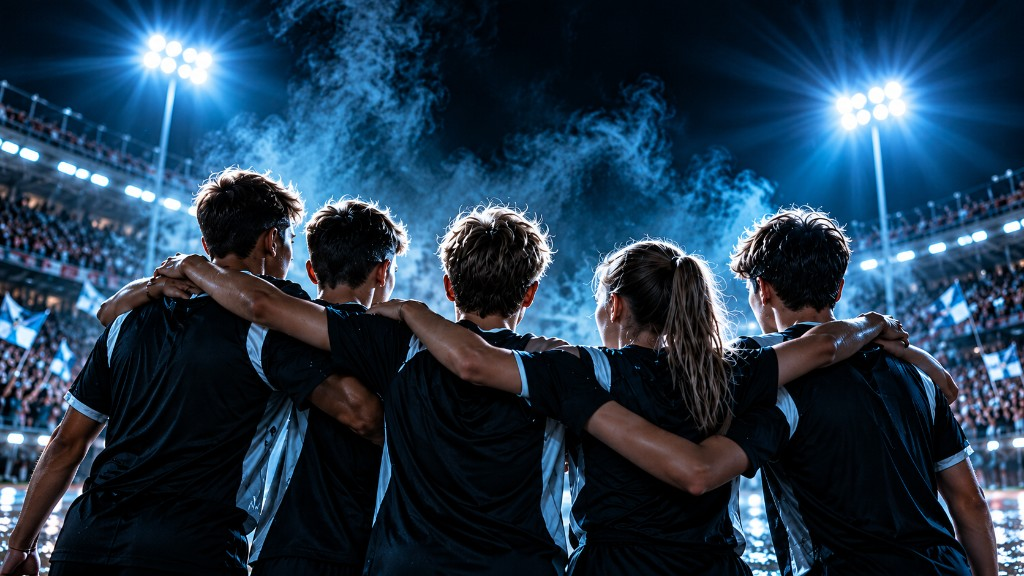
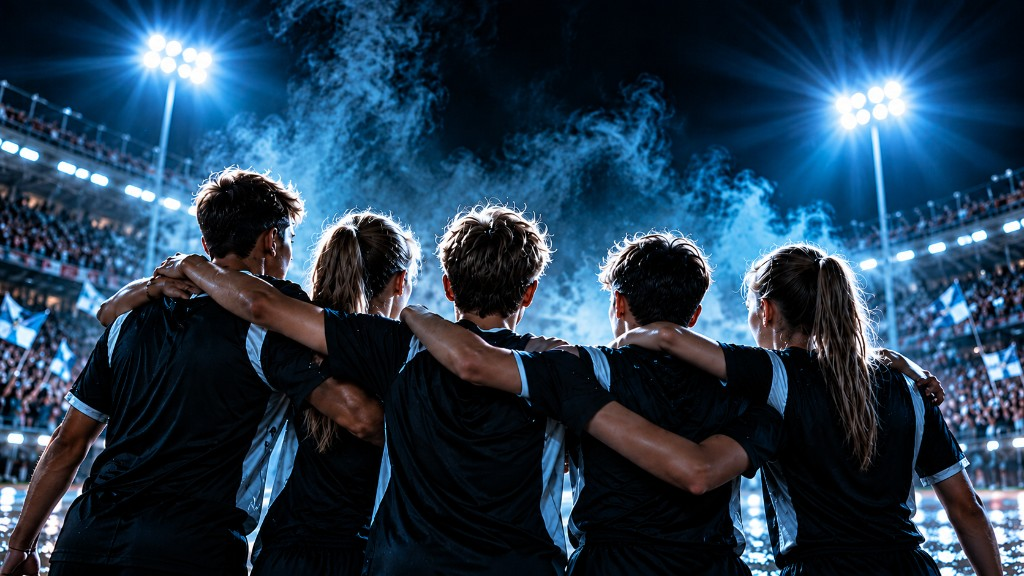
ordnade avsnittsnavigering, och anpassat bilderna efter mobil

diff --git a/components/rail.tsx b/components/rail.tsx
@@ -2,20 +2,51 @@
 
 import { useCallback, useEffect, useState } from "react";
 import Link from "next/link";
+import { usePathname } from "next/navigation";
 import { useLenis } from "lenis/react";
 
-const chapters = [
-  { id: "top", label: "Planen" },
-  { id: "kedjan", label: "Häftet" },
-  { id: "kund", label: "Plus" },
-  { id: "produkter", label: "Produkter" },
-  { id: "mer", label: "Mer" },
-  { id: "kontakt", label: "Kontakt" },
-];
+type Chapter = { id: string; label: string };
 
-function currentChapter() {
+const rails: Record<string, { accent: string; chapters: Chapter[] }> = {
+  "/": {
+    accent: "bg-cyan",
+    chapters: [
+      { id: "top", label: "Planen" },
+      { id: "kedjan", label: "Häftet" },
+      { id: "kund", label: "Plus" },
+      { id: "produkter", label: "Produkter" },
+      { id: "mer", label: "Mer" },
+      { id: "kontakt", label: "Kontakt" },
+    ],
+  },
+  "/print": {
+    accent: "bg-cyan",
+    chapters: [
+      { id: "top", label: "Namnet" },
+      { id: "inledning", label: "Trycket" },
+      { id: "kedjan", label: "Kedjan" },
+      { id: "sortiment", label: "Sortiment" },
+      { id: "kontakt", label: "Kontakt" },
+    ],
+  },
+  "/skanetaxen": {
+    accent: "bg-[#e7dcc8]",
+    chapters: [
+      { id: "top", label: "Märket" },
+      { id: "inledning", label: "Bära" },
+      { id: "kollektion", label: "Kollektion" },
+      { id: "bars", label: "Stilen" },
+      { id: "forjanst", label: "Förtjänst" },
+      { id: "kontakt", label: "Kontakt" },
+    ],
+  },
+};
+
+const emptyChapters: Chapter[] = [];
+
+function currentChapter(chapters: Chapter[]) {
   const mark = window.innerHeight * 0.4;
-  let current = chapters[0].id;
+  let current = chapters[0]?.id ?? "";
   for (const chapter of chapters) {
     const node = document.getElementById(chapter.id);
     if (!node) continue;
@@ -25,16 +56,22 @@ function currentChapter() {
 }
 
 export function Rail() {
-  const [active, setActive] = useState("top");
+  const pathname = usePathname();
+  const rail = rails[pathname];
+  const chapters = rail?.chapters ?? emptyChapters;
+  const accent = rail?.accent ?? "bg-cyan";
+  const [active, setActive] = useState(chapters[0]?.id ?? "");
 
   const update = useCallback(() => {
-    const next = currentChapter();
+    if (!chapters.length) return;
+    const next = currentChapter(chapters);
     setActive((prev) => (prev === next ? prev : next));
-  }, []);
+  }, [chapters]);
 
-  const lenis = useLenis(update, []);
+  const lenis = useLenis(update, [pathname]);
 
   useEffect(() => {
+    setActive(chapters[0]?.id ?? "");
     update();
     window.addEventListener("scroll", update, { passive: true });
     window.addEventListener("resize", update);
@@ -42,7 +79,7 @@ export function Rail() {
       window.removeEventListener("scroll", update);
       window.removeEventListener("resize", update);
     };
-  }, [update]);
+  }, [update, chapters]);
 
   function go(event: React.MouseEvent<HTMLAnchorElement>, id: string) {
     const target = document.getElementById(id);
@@ -52,23 +89,47 @@ export function Rail() {
     else target.scrollIntoView();
   }
 
+  if (!rail) return null;
+
+  const label = chapters.find((chapter) => chapter.id === active)?.label;
+
   return (
-    <nav className="fixed left-5 top-1/2 z-40 hidden -translate-y-1/2 xl:block" aria-label="Avsnitt">
-      <ol className="flex flex-col gap-3">
-        {chapters.map((chapter) => {
-          const current = active === chapter.id;
-          return (
-            <li key={chapter.id}>
-              <Link href={`/#${chapter.id}`} onClick={(event) => go(event, chapter.id)} className="group flex items-center gap-3">
-                <span className={`block h-px transition-all ${current ? "w-10 bg-cyan" : "w-5 bg-white/35 group-hover:w-8 group-hover:bg-white"}`} />
-                <span className={`text-[0.65rem] uppercase tracking-[0.22em] text-transparent group-hover:text-white`}>
-                  {chapter.label}
-                </span>
-              </Link>
-            </li>
-          );
-        })}
-      </ol>
-    </nav>
+    <>
+      <nav className="fixed left-5 top-1/2 z-40 hidden -translate-y-1/2 xl:block" aria-label="Avsnitt">
+        <ol className="flex flex-col gap-3">
+          {chapters.map((chapter) => {
+            const current = active === chapter.id;
+            return (
+              <li key={chapter.id}>
+                <Link href={`#${chapter.id}`} onClick={(event) => go(event, chapter.id)} aria-current={current ? "true" : undefined} className="group flex items-center gap-3">
+                  <span className={`block h-px transition-all ${current ? `w-10 ${accent}` : "w-5 bg-white/35 group-hover:w-8 group-hover:bg-white"}`} />
+                  <span className="text-[0.65rem] uppercase tracking-[0.22em] text-transparent group-hover:text-white">{chapter.label}</span>
+                </Link>
+              </li>
+            );
+          })}
+        </ol>
+      </nav>
+
+      <nav className="fixed inset-x-0 bottom-0 z-40 flex justify-center px-4 pb-[max(0.75rem,env(safe-area-inset-bottom))] xl:hidden" aria-label="Avsnitt">
+        <ol className="flex max-w-full items-center gap-3 rounded-full border border-white/10 bg-ink/75 px-4 py-2.5 shadow-[0_10px_40px_rgba(0,0,0,0.35)] backdrop-blur-md">
+          <li className="whitespace-nowrap font-display text-[0.72rem] uppercase tracking-[0.18em] text-white/80" aria-hidden>
+            {label}
+          </li>
+          <li className="h-3 w-px shrink-0 bg-white/15" aria-hidden />
+          {chapters.map((chapter) => {
+            const current = active === chapter.id;
+            return (
+              <li key={chapter.id}>
+                <Link href={`#${chapter.id}`} onClick={(event) => go(event, chapter.id)} aria-current={current ? "true" : undefined} className="flex h-6 items-center px-0.5">
+                  <span className={`block rounded-full transition-all ${current ? `h-px w-5 ${accent}` : "h-1 w-1 bg-white/40"}`} />
+                  <span className="sr-only">{chapter.label}</span>
+                </Link>
+              </li>
+            );
+          })}
+        </ol>
+      </nav>
+    </>
   );
 }

diff --git a/app/skanetaxen/page.tsx b/app/skanetaxen/page.tsx
@@ -76,8 +76,8 @@ const points = [
 export default function SkanetaxenPage() {
   return (
     <>
-      <section className="grid min-h-[100svh] bg-ink lg:h-[100svh] lg:grid-cols-2">
-        <div className="page-x relative z-10 order-2 flex flex-col justify-end pb-16 pt-12 sm:pt-16 lg:order-1 lg:justify-center lg:py-16 lg:pt-28">
+      <section id="top" className="grid min-h-[100svh] bg-ink lg:h-[100svh] lg:grid-cols-2">
+        <div className="page-x relative z-10 order-2 flex flex-col justify-end pb-28 pt-12 sm:pt-16 lg:order-1 lg:justify-center lg:py-16 lg:pb-16 lg:pt-28">
           <p className="hero-kicker rise text-[0.72rem] uppercase tracking-[0.46em] text-[#e7dcc8]">Skånetaxen</p>
           <h1 className="hero-title rise rise-2 mt-3 max-w-full font-display font-semibold uppercase leading-[0.84] text-white sm:max-w-5xl">
             <KineticLines text={"Ett märke\nföreningen\nkan sälja."} />
@@ -163,19 +163,21 @@ export default function SkanetaxenPage() {
         </div>
       </section>
 
-      <div className="page-x pb-8 pt-16 sm:pt-20">
-        <p className="text-[0.72rem] uppercase tracking-[0.42em] text-[#e7dcc8]">Så bärs det</p>
-      </div>
-      <div className="grid grid-cols-1 gap-3 px-3 sm:gap-4 sm:px-4 md:grid-cols-2">
-        {worn.map((shot) => (
-          <figure key={shot.src} className={`relative bg-[#efe6da] ${shot.frame}`}>
-            <Image src={shot.src} alt={shot.alt} fill sizes="(min-width: 1024px) 50vw, 100vw" className="object-cover" />
-            <figcaption className="absolute bottom-4 left-4 max-w-[calc(100%-2rem)] bg-ink/80 px-3 py-2 text-[0.65rem] uppercase leading-tight tracking-[0.18em] text-[#e7dcc8] sm:text-[0.72rem] sm:tracking-[0.28em]">
-              {shot.label}
-            </figcaption>
-          </figure>
-        ))}
-      </div>
+      <section id="bars" className="scroll-mt-28">
+        <div className="page-x pb-8 pt-16 sm:pt-20">
+          <p className="text-[0.72rem] uppercase tracking-[0.42em] text-[#e7dcc8]">Så bärs det</p>
+        </div>
+        <div className="grid grid-cols-1 gap-3 px-3 sm:gap-4 sm:px-4 md:grid-cols-2">
+          {worn.map((shot) => (
+            <figure key={shot.src} className={`relative bg-[#efe6da] ${shot.frame}`}>
+              <Image src={shot.src} alt={shot.alt} fill sizes="(min-width: 1024px) 50vw, 100vw" className="object-cover" />
+              <figcaption className="absolute bottom-4 left-4 max-w-[calc(100%-2rem)] bg-ink/80 px-3 py-2 text-[0.65rem] uppercase leading-tight tracking-[0.18em] text-[#e7dcc8] sm:text-[0.72rem] sm:tracking-[0.28em]">
+                {shot.label}
+              </figcaption>
+            </figure>
+          ))}
+        </div>
+      </section>
 
       <section className="relative mt-3 aspect-[16/9] overflow-hidden bg-black sm:mt-4" aria-label="Skånetaxen vid sjön i kvällsljus">
         <Image
@@ -192,7 +194,7 @@ export default function SkanetaxenPage() {
         </p>
       </section>
 
-      <section className="bg-ink py-24 sm:py-32">
+      <section id="forjanst" className="scroll-mt-28 bg-ink py-24 sm:py-32">
         <div className="page-x">
           <Reveal stagger>
             <ol className="grid grid-cols-1 gap-px bg-[#e7dcc8]/15 sm:grid-cols-2 lg:grid-cols-3">

diff --git a/components/film.tsx b/components/film.tsx
@@ -73,7 +73,7 @@ export function Film() {
       setCinematic(allowFilm);
 
       ctx = gsap.context(() => {
-        if (allowMotion && hero.current && heroMedia.current && heroCopy.current) {
+        if (allowMotion && hero.current && heroMedia.current && heroCopy.current && window.matchMedia("(min-width: 1024px)").matches) {
           gsap.fromTo(
             heroMedia.current,
             { yPercent: -4, scale: 1.08 },
@@ -146,18 +146,18 @@ export function Film() {
   return (
     <>
       <section id="top" ref={hero} className="relative min-h-[100svh] overflow-hidden bg-ink lg:h-[100svh]">
-        <div ref={heroMedia} className="absolute inset-x-0 -top-[8%] h-[120%]">
+        <div ref={heroMedia} className="hero-media absolute inset-x-0 -top-[8%] h-[120%]">
           <Image
-            src="/media/hero-laget.jpg"
-            alt="Fem spelare med ryggen mot oss, armarna om varandra, framför strålkastarna på en fullsatt arena."
+            src="/media/hero-arenan.jpg"
+            alt="Sex spelare med ryggen mot oss, armarna om varandra, framför strålkastarna på en fullsatt arena."
             fill
             priority
             sizes="100vw"
-            className="object-cover object-[center_42%] lg:object-[center_58%]"
+            className="object-cover object-center lg:object-[center_58%]"
           />
           <div className="absolute inset-0 bg-[radial-gradient(ellipse_at_50%_0%,rgba(190,236,255,0.22),transparent_42%),linear-gradient(to_bottom,rgba(5,7,12,0.45)_0%,rgba(5,7,12,0.18)_30%,rgba(5,7,12,0.78)_68%,#05070c_100%)]" />
         </div>
-        <div ref={heroCopy} className="page-x relative z-10 flex min-h-[100svh] flex-col justify-end pb-28 pt-24 sm:pb-16 sm:pt-24">
+        <div ref={heroCopy} className="hero-copy page-x relative z-10 flex min-h-[100svh] flex-col justify-end pb-28 pt-24 sm:pb-16 sm:pt-24">
           <p className="hero-kicker rise text-[0.72rem] uppercase tracking-[0.46em] text-cyan">Built2Perform</p>
           <h1 className="hero-title rise rise-2 mt-3 max-w-5xl font-display font-semibold uppercase leading-[0.84] text-white">
             Tillsammans
@@ -167,7 +167,7 @@ export function Film() {
             föreningslivet<span className="text-cyan">.</span>
           </h1>
           <p className="rise rise-3 mt-6 max-w-xl text-base leading-7 text-white/80 sm:text-lg">
-            Vi skapar rabatthäftet. <span className="text-white">Slutkunden sparar massor med pengar,</span> och föreningen får 150 kronor för varje häfte.
+            Vi skapar rabatthäftet. <span className="text-white">Bidrar till att stärka lokala handeln,</span> Slutkunden sparar massor med pengar,<span className="text-white"> föreningen får 150 kronor för varje häfte.</span>
           </p>
           <div className="rise rise-4 mt-8 flex flex-col gap-3 sm:flex-row sm:flex-wrap">
             <a href="#kedjan" className="bg-cyan px-5 py-3 text-center font-display text-xl uppercase tracking-[0.12em] text-ink transition hover:bg-white sm:text-left">

diff --git a/components/story.tsx b/components/story.tsx
@@ -149,12 +149,12 @@ export function Story({
 
   return (
     <>
-      <section ref={hero} className="relative min-h-[100svh] overflow-hidden bg-ink lg:h-[100svh]">
+      <section id="top" ref={hero} className="relative min-h-[100svh] overflow-hidden bg-ink lg:h-[100svh]">
         <div ref={heroMedia} className={`absolute ${heroFrame}`}>
           <Image src={heroImage} alt={heroAlt} fill priority sizes="100vw" className={`object-cover ${heroPosition}`} />
           <div className="absolute inset-0 bg-[radial-gradient(ellipse_at_50%_0%,rgba(190,236,255,0.22),transparent_42%),linear-gradient(to_bottom,rgba(5,7,12,0.45)_0%,rgba(5,7,12,0.18)_30%,rgba(5,7,12,0.78)_68%,#05070c_100%)]" />
         </div>
-        <div ref={heroCopy} className="page-x relative z-10 flex min-h-[100svh] flex-col justify-end pb-28 pt-24 sm:pb-16 sm:pt-24">
+        <div ref={heroCopy} className="page-x relative z-10 flex min-h-[100svh] flex-col justify-end pb-28 pt-24 lg:pb-16 lg:pt-24">
           <p className="hero-kicker rise text-[0.72rem] uppercase tracking-[0.46em] text-cyan">{kicker}</p>
           <h1 className="hero-title rise rise-2 mt-3 max-w-5xl font-display font-semibold uppercase leading-[0.84] text-white">
             <KineticLines text={title} />

diff --git a/app/globals.css b/app/globals.css
@@ -68,8 +68,28 @@ body::after {
   }
 }
 
+@media (max-width: 1279px) {
+  body:has(nav[aria-label="Avsnitt"]) {
+    padding-bottom: calc(4.25rem + env(safe-area-inset-bottom));
+  }
+}
+
 .hero-title {
   font-size: clamp(2.15rem, 11vw, 6.6rem);
+}
+
+@media (max-width: 1023px) {
+  #top .hero-media {
+    top: 0;
+    height: auto;
+    aspect-ratio: 1024 / 576;
+  }
+
+  #top .hero-copy {
+    justify-content: flex-start;
+    padding-top: calc(56.25vw + 1.25rem);
+    padding-bottom: max(1.5rem, env(safe-area-inset-bottom));
+  }
 }
 
 @media (max-height: 760px) and (min-width: 1024px) {
@@ -392,5 +412,6 @@ input:-webkit-autofill {
     animation: none;
   }
 }
+
 
 

diff --git a/app/layout.tsx b/app/layout.tsx
@@ -4,6 +4,7 @@ import Script from "next/script";
 import { CookieBanner } from "@/components/cookie-banner";
 import { Footer } from "@/components/footer";
 import { Nav } from "@/components/nav";
+import { Rail } from "@/components/rail";
 import { SmoothScroll } from "@/components/smooth-scroll";
 import { site } from "@/lib/site";
 import "./globals.css";
@@ -61,6 +62,7 @@ export default function RootLayout({ children }: LayoutProps<"/">) {
         </a>
         <SmoothScroll>
           <Nav />
+          <Rail />
           <main id="innehall">{children}</main>
           <Footer />
           <CookieBanner />

diff --git a/app/print/page.tsx b/app/print/page.tsx
@@ -24,7 +24,7 @@ export default function PrintPage() {
         lead="Föreningens namn, tryckt på kläder, skyltar, beachflags och rollups."
         marquee="Tryck · Kläder · Skylt · Beachflag · Rollup · Förening · Namn · Syns · "
         introKicker="Trycket"
-        introTitle={"Från tröjan\ntill planen."}
+        introTitle={"Från kläderna\ntill planen."}
         introBody="Det medlemmarna har på sig, och det som står där de samlas."
         chainLabel="Built2Print, från kläder till rollups"
         heroImage="/media/print-hero.jpg"

diff --git a/app/page.tsx b/app/page.tsx
@@ -4,12 +4,10 @@ import { EarningsProvider } from "@/components/earnings";
 import { Film } from "@/components/film";
 import { More } from "@/components/more";
 import { Products } from "@/components/products";
-import { Rail } from "@/components/rail";
 
 export default function Page() {
   return (
     <EarningsProvider>
-      <Rail />
       <Film />
       <Boost />
       <Products />
